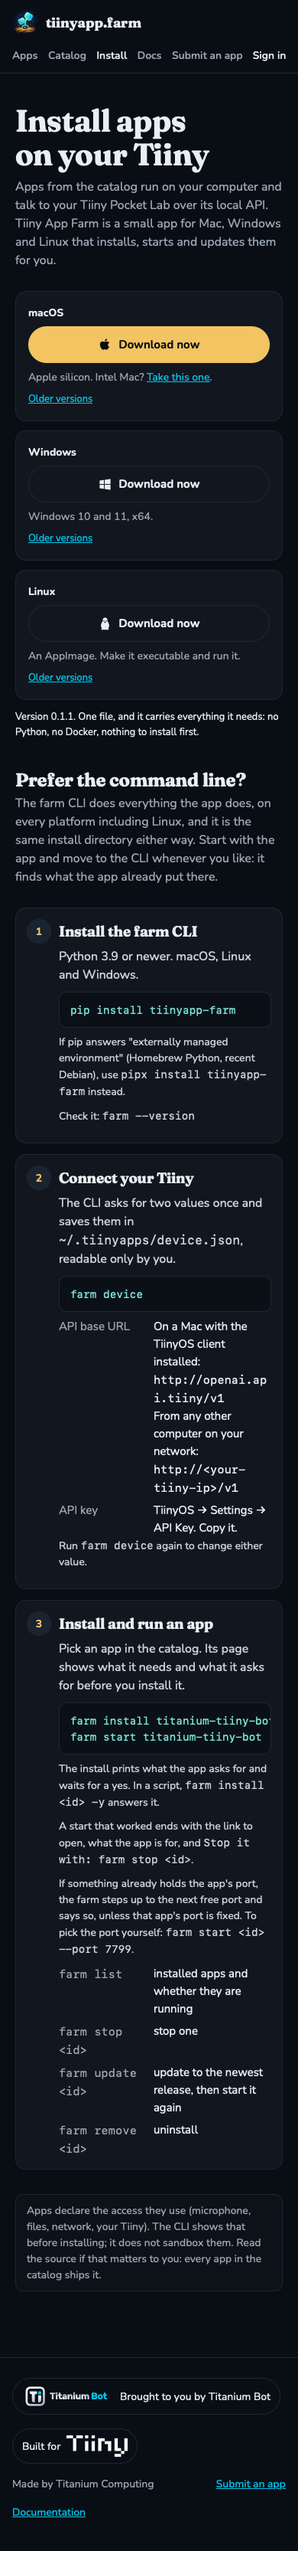
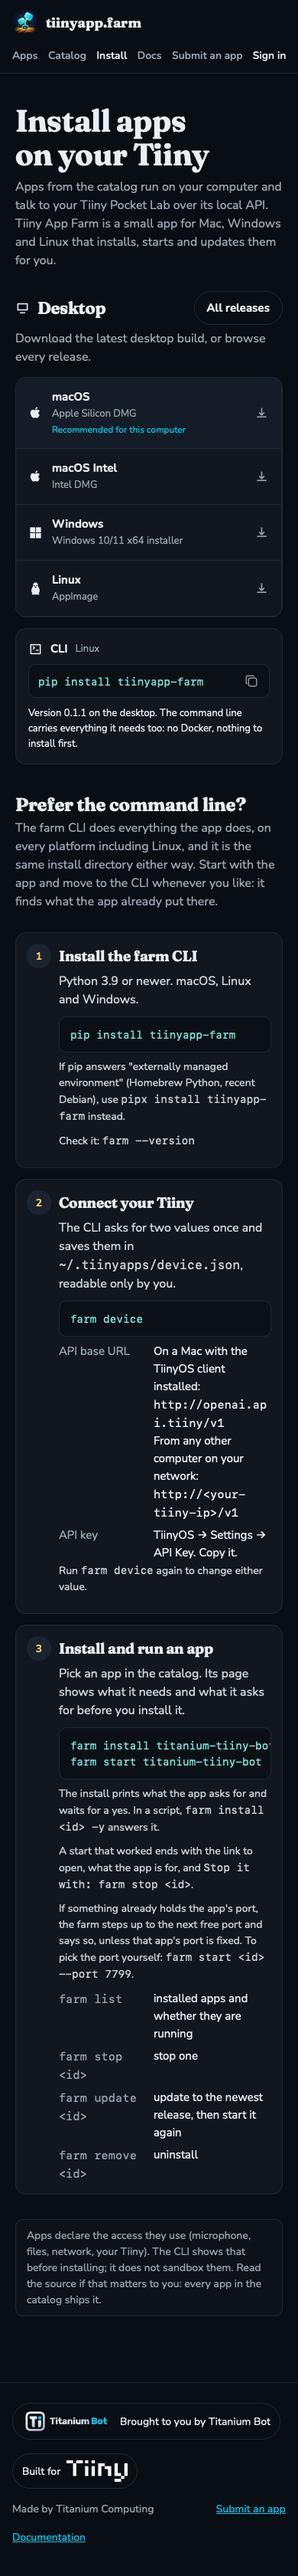
The downloads become the grid Jason drew
A Desktop section with a monitor mark and All releases at its right, then one
bordered panel holding a two by two grid of rows: macOS with the Apple Silicon
DMG, macOS Intel with the Intel DMG, Windows with the x64 installer, Linux with
the AppImage. Each row is the link, title bold and subtitle muted, its platform
mark on the left and a download arrow at the right edge. Below the panel the CLI
box, with the pip command in a code field and the copy button the app pages use.
At phone width the grid becomes one column of four rows.

The row for the computer reading gets a filled background and says Recommended
for this computer. That claim starts hidden, because nothing on the server knows
which computer that is. Where the browser will say which Mac it is, an Intel Mac
gets its own row recommended rather than the Apple silicon one; Safari answers
MacIntel on every Mac and cannot be asked, so there the Apple silicon row keeps
it and the Intel row sits directly beneath.

Every mark is one inline path in the site's ink, so the panel costs no image
request, and the Microsoft mark joins the three we had.

The documentation stops telling Linux users to go to the command line, now that
0.1.1 ships an AppImage, and carries the two caveats the launcher's own release
notes record: it is unsigned, and nobody here has run it on a Linux desktop.

diff --git a/site/assets/launcher.js b/site/assets/launcher.js
@@ -1,20 +1,55 @@
-// All three downloads are in the markup with real links, so the page works with JavaScript
-// switched off. This only moves the visitor's own platform to the front of the row and fills
-// its button, which is the one piece a static page cannot know on its own.
-const row = document.querySelector('[data-launcher]');
-if (row) {
-  const platform = navigator.userAgentData?.platform || navigator.platform || navigator.userAgent || '';
-  const here = /windows|win32|win64/i.test(platform) ? 'windows'
-    : /android/i.test(platform) ? ''
-      : /linux|x11|ubuntu|fedora|cros/i.test(platform) ? 'linux'
-        : /mac|iphone|ipad|ipod/i.test(platform) ? 'mac' : '';
-  const cell = here && row.querySelector(`[data-platform="${here}"]`);
-  if (cell) {
-    row.prepend(cell);
-    for (const button of row.querySelectorAll('.get-now')) {
-      const mine = button.closest('[data-platform]') === cell;
-      button.classList.toggle('hay', mine);
-      button.classList.toggle('ghost', !mine);
+// Every download is a real link in the markup, so the panel works with JavaScript switched off.
+// This adds the one thing a static page cannot know: which of the rows is for the computer
+// reading it. The recommendation starts hidden, so nothing is claimed until we know.
+async function thisComputer() {
+  const hints = navigator.userAgentData;
+  if (hints) {
+    const platform = hints.platform || '';
+    if (/windows/i.test(platform)) return 'windows';
+    if (/android/i.test(platform)) return '';
+    if (/linux|cros/i.test(platform)) return 'linux';
+    if (/mac/i.test(platform)) {
+      // Safari tells nobody which Mac this is, so only ask where the answer exists.
+      let architecture = '';
+      try {
+        ({ architecture } = await hints.getHighEntropyValues(['architecture']));
+      } catch { architecture = ''; }
+      return architecture === 'x86' ? 'mac-intel' : 'mac';
     }
+    return '';
   }
+  const platform = navigator.platform || navigator.userAgent || '';
+  if (/windows|win32|win64/i.test(platform)) return 'windows';
+  if (/android/i.test(platform)) return '';
+  if (/linux|x11|ubuntu|fedora|cros/i.test(platform)) return 'linux';
+  if (/mac|iphone|ipad|ipod/i.test(platform)) return 'mac';
+  return '';
 }
+
+const grid = document.querySelector('[data-launcher]');
+if (grid) {
+  thisComputer().then(here => {
+    const row = here && grid.querySelector(`[data-platform="${here}"]`);
+    if (!row) return;
+    row.classList.add('on');
+    row.querySelector('[data-launcher-recommended]')?.removeAttribute('hidden');
+  });
+}
+
+// The same copy button the app pages use. That handler lives in the catalog module, which this
+// page has no other reason to load, so the behaviour is repeated here rather than the module.
+const CHECK = 'm5 12 5 5L20 7';
+document.addEventListener('click', async event => {
+  const button = event.target.closest?.('[data-copy]');
+  if (!button) return;
+  const command = button.closest('.cmd')?.querySelector('span')?.textContent || '';
+  const original = button.innerHTML;
+  try {
+    await navigator.clipboard.writeText(command);
+    button.innerHTML = `<svg class="ic" viewBox="0 0 24 24" aria-hidden="true" fill="none"
+      stroke="currentColor" stroke-linecap="round" stroke-linejoin="round" stroke-width="1.75"><path d="${CHECK}"/></svg>`;
+    window.setTimeout(() => { button.innerHTML = original; }, 1200);
+  } catch {
+    button.setAttribute('aria-label', 'Could not copy command');
+  }
+});

diff --git a/site/assets/site.css b/site/assets/site.css
@@ -56,14 +56,26 @@ nav a{color:var(--mute);text-decoration:none;white-space:nowrap}nav a.on{color:v
    turns the launcher on, so they cost a reader nothing while it is off. */
 .page .get{display:grid;gap:10px;justify-items:start;margin:0 0 34px;padding:20px;background:var(--soil);border:1px solid var(--fence);border-radius:14px}
 .mk{width:19px;height:19px;flex:none}
-.gets{display:grid;grid-template-columns:repeat(3,minmax(0,1fr));gap:12px;margin:0 0 12px}
-.get-one{display:flex;flex-direction:column;gap:8px;padding:18px 16px;background:var(--soil);border:1px solid var(--fence);border-radius:14px}
-.get-one .get-os,.ver-plat .get-os{margin:0;font:700 14px var(--body);color:var(--ink);display:flex;align-items:center;gap:8px}
-.get-one .btn.get-now{width:100%;min-height:48px;white-space:normal}
-.get-one p{margin:0}
-.get-one .small{flex:1}
-.get-one .get-old{font-size:13px;color:var(--mute)}
-.get-note{margin:0 0 34px;font-size:13px}
+.dl{margin:0 0 34px}
+.dl-head{display:flex;align-items:center;justify-content:space-between;gap:12px;margin:0 0 6px}
+.page .dl-head h2{display:flex;align-items:center;gap:10px;font-size:22px;margin:0}
+.page .dl .sub{margin:0 0 14px}
+.dl-grid{display:grid;grid-template-columns:repeat(2,minmax(0,1fr));border:1px solid var(--fence);border-radius:14px;overflow:hidden;background:var(--soil)}
+.page a.dl-row,.dl-row{display:flex;align-items:center;gap:12px;padding:15px 16px;min-height:44px;color:var(--ink);text-decoration:none;border-right:1px solid var(--fence);border-bottom:1px solid var(--fence)}
+.dl-row:nth-child(2n){border-right:0}
+.dl-row:nth-last-child(-n+2){border-bottom:0}
+.page a.dl-row:hover,.dl-row:hover{background:#151d28;color:var(--ink);text-decoration:none}
+.page a.dl-row.on,.dl-row.on{background:#141c27}
+.dl-text{display:flex;flex-direction:column;gap:2px;flex:1;min-width:0}
+.dl-text b{font:700 15px var(--body)}
+.dl-sub{color:var(--mute);font-size:13px}
+.dl-rec{color:var(--cyan);font-size:12px}
+.dl-row .mk:last-child{color:var(--mute)}
+.dl-cli{margin:14px 0 0;padding:16px;border:1px solid var(--fence);border-radius:14px;background:var(--soil)}
+.dl-cli-head{display:flex;align-items:center;gap:10px;margin:0 0 10px}
+.dl-cli-head b{font:700 15px var(--body)}
+.dl-cli .fine{margin:10px 0 0;font-size:13px}
+.ver-plat .get-os{margin:0;font:700 14px var(--body);color:var(--ink);display:flex;align-items:center;gap:8px}
 .versions-page{max-width:880px}
 .ver-now{display:grid;grid-template-columns:repeat(3,minmax(0,1fr));gap:12px;margin:0 0 22px}
 .ver-plat{display:flex;flex-direction:column;gap:8px;padding:16px;background:var(--soil);border:1px solid var(--fence);border-radius:14px}
@@ -73,7 +85,7 @@ nav a{color:var(--mute);text-decoration:none;white-space:nowrap}nav a.on{color:v
 .rel h2{font-size:24px;margin:0 0 2px}
 .rel .rel-when{margin:0 0 12px;color:var(--mute);font-size:14px}
 .rel td,.rel th{white-space:nowrap}
-@media(max-width:640px){.gets,.ver-now{grid-template-columns:1fr}}
+@media(max-width:640px){.ver-now{grid-template-columns:1fr}.dl-grid{grid-template-columns:1fr}.dl-row{border-right:0}.dl-row:nth-last-child(-n+2){border-bottom:1px solid var(--fence)}.dl-row:last-child{border-bottom:0}.dl-head{flex-wrap:wrap}}
 .page .get p{margin:0}
 .page .get .btn.get-now{font-size:17px;padding:14px 26px;min-height:52px}
 .page .get .fine{font-size:13px;max-width:58ch}

diff --git a/docs/site/12-launcher.md b/docs/site/12-launcher.md
@@ -22,11 +22,18 @@ There is one file for each platform.
   the download button offers is for Apple silicon, and an Intel Mac takes the Intel one.
 - **Windows.** An installer for the x64 build. It installs for your user account only, so Windows
   never asks for an administrator password. Windows on ARM is not built yet.
-- **Linux.** Use the command line, which works everywhere and is what most Linux users already
-  have. See [Getting started](/docs/getting-started/).
+- **Linux.** An AppImage for x86_64, carrying the same bundled Python and the same engine as the
+  other two. Make it executable and run it; there is nothing to install first. Two things are
+  worth knowing before you do. It is not signed, because Linux has no notarisation and nothing a
+  stranger's machine would check a desktop signature against, so the SHA-256 published with every
+  release is what you can verify instead. And it has been built but not yet run on a Linux desktop
+  by anybody here, so the tray, the deep link and the window are untested there. The command line
+  remains the better-worn path on Linux: see [Getting started](/docs/getting-started/).
 
 Every download comes from this site, at `tiinyapp.farm/launcher/`. The app checks the same place
-for its own updates and installs them quietly when you next open it.
+for its own updates and installs them quietly when you next open it. That updater covers macOS
+only for now; a newer Windows or Linux build means downloading it from
+[Launcher versions](/launcher/versions/).
 
 ## Going back to an older version
 
